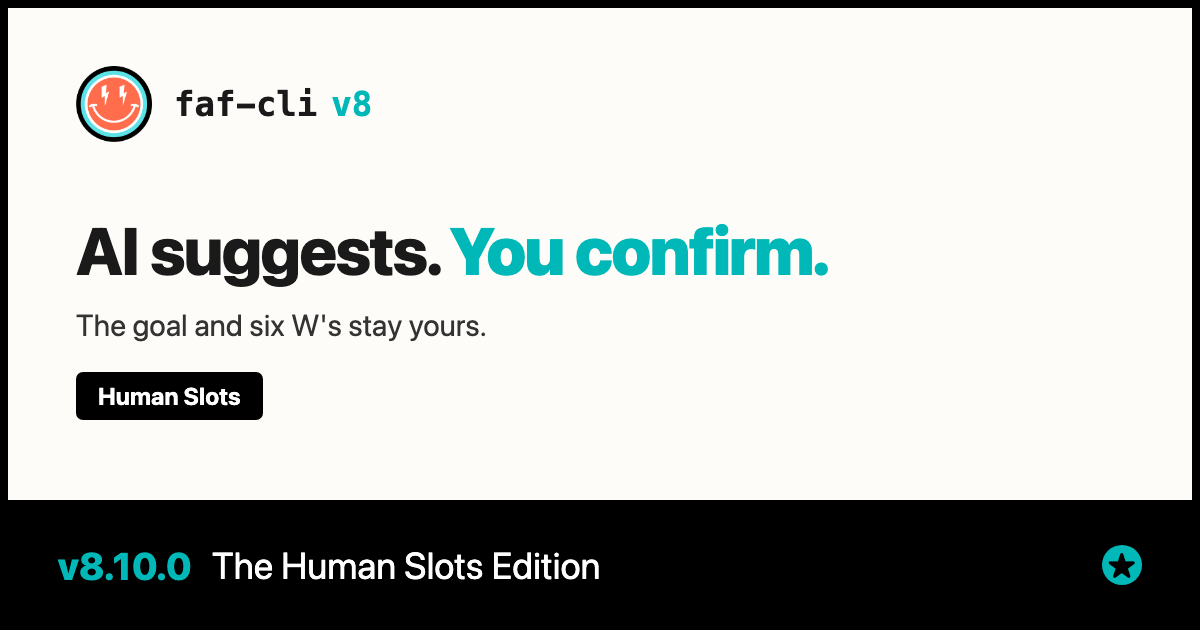
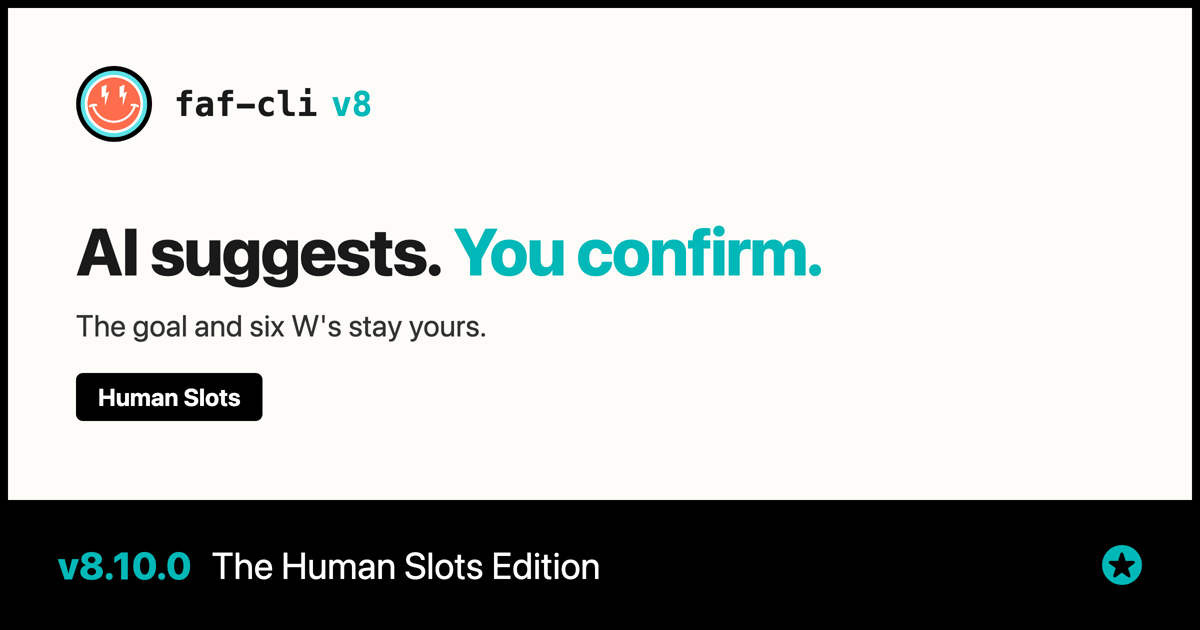
feat: Human Slots Edition hero is a film (#131)
- 8 s loop: AI suggests turns gray, You confirm types and clicks, AI suggests turns black and clicks
- Poster and og:image = frame 1 (the finished card)

diff --git a/src/routes/blog/human-slots-edition/+page.svelte b/src/routes/blog/human-slots-edition/+page.svelte
@@ -76,12 +76,17 @@ Comments · suggestions welcome.`;
 	</header>
 
 	<div class="hero-image">
-		<img
-			src="/blog/human-slots-edition-hero.png"
-			alt="faf-cli v8.10.0, The Human Slots Edition: AI suggests. You confirm."
+		<video
+			src="/blog/human-slots-edition-hero.mp4"
+			poster="/blog/human-slots-edition-hero.png"
+			autoplay
+			loop
+			muted
+			playsinline
 			width="1200"
 			height="630"
-		/>
+			aria-label="faf-cli v8.10.0, The Human Slots Edition: AI suggests, in gray. You confirm types in. Then AI suggests turns black."
+		></video>
 	</div>
 
 	<article class="post-content">
@@ -293,7 +298,8 @@ Comments · suggestions welcome.`;
 		border-radius: 12px;
 		overflow: hidden;
 	}
-	.hero-image img {
+	.hero-image img,
+	.hero-image video {
 		width: 100%;
 		height: auto;
 		display: block;
